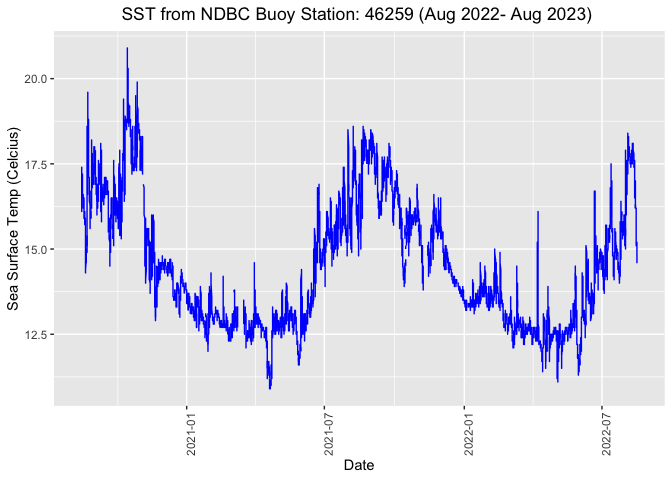
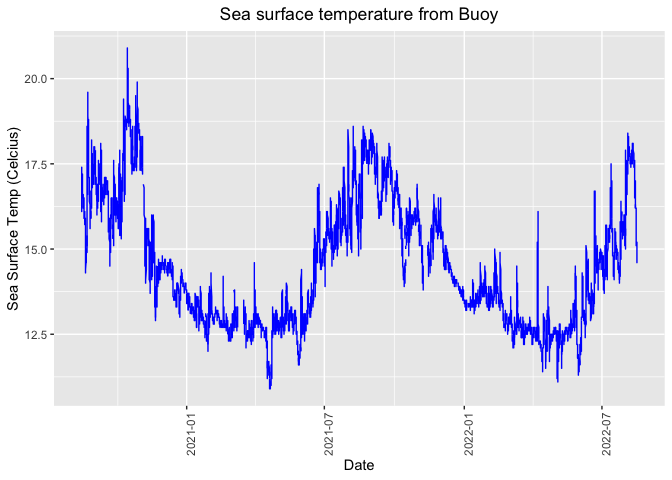
updated virtual buoy example -R

Changed region(s): [[0.1875, 0.0, 0.875, 0.0625]]

diff --git a/virtual-buoy-example_geopolar/R/virtual_buoy_example.md b/virtual-buoy-example_geopolar/R/virtual_buoy_example.md
@@ -1,53 +1,47 @@
+# Virtual Buoy example
+
 > Updated August 2023 <br/>
 
 There are buoys in many locations around the world that provide data
 streams of oceanic and atmospheric parameters. The data are often
 available through data centers like the those National Data Buoy Center
 (NDBC <https://www.ndbc.noaa.gov>), ARGO floats program
-(<http://www.argo.ucsd.edu>) or ERDDAP data server (<https://www.our>
-server). In situ buoy data are widely used to monitor environmental
-conditions. In the absence of in situ buoy data, whether the buoy
-operation is discontinued, interrupted, or limited, satellite data with
-within temporal and spatial coverage can be used to create a dataset in
-a buoy data format.
-
-To demonstrate the satellite data being used in place of buoy data, we
-will use sea surface temperature data which both satellite and buoy
-collect.
+(<http://www.argo.ucsd.edu>) or ERDDAP data server
+(<https://coastwatch.pfeg.noaa.gov/erddap/>). In situ buoy data are
+widely used to monitor environmental conditions. In the absence of in
+situ buoy data, whether the buoy operation is discontinued, interrupted,
+or limited, satellite data with within temporal and spatial coverage can
+be used to create a dataset in a buoy data format.
 
 ## Objective
 
-This tutorial will demonstration how to transform satellite data into a
-buoy data format
+This tutorial will demonstration how to shape satellite data into a buoy
+data format
 
 ## The tutorial demonstrates the following techniques
 
--   Download the satellite data and bouy data of the time period and
-    spatial coverage
--   Visualize the datasets
--   Transform the satellite data into a buoy data format
--   Validate the transformed satellite data with the actual buoy data
--   Plot the transformed satellite data and the buoy data
--   Perform a linear regression of satellite vs. buoy data
--   Plot satellite vs. buoy data and overlay the regression line
+-   Downloading the satellite and buoy data from ERDDAP data server
+-   Visualizing the datasets
+-   Reshaping the satellite data into a buoy data format
+-   Resampling buoy data (aggregation) to match satellite data temporal
+    resolution
+-   Validating the satellite data with the actual buoy data
+-   Performing a linear regression of satellite vs. buoy data
+-   Creating residual plot
 
 ## Datasets used
 
--   <a href="https://coastwatch.pfeg.noaa.gov/erddap/griddap/nesdisBLENDEDsstDNDaily.graph">The
-    sea surface temperature (SST) satellite data</a> from NOAA Geo-polar
-    blended analysis are used for transforming to buoy data format
+**Sea-Surface Temperature, NOAA Geo-polar Blended Analysis Day+Night,
+GHRSST,Near Real-Time, Global 5km, 2019-Present, Daily**  
+<a href="https://coastwatch.pfeg.noaa.gov/erddap/griddap/nesdisBLENDEDsstDNDaily.graph" target="_blank">The
+sea surface temperature (SST) </a> satellite data from NOAA Geo-polar
+blended analysis
 
--   Sea-Surface Temperature, NOAA Geo-polar Blended Analysis Day+Night,
-    GHRSST,Near Real-Time, Global 5km, 2019-Present, Daily\*
-
--   <a href="https://coastwatch.pfeg.noaa.gov/erddap/tabledap/cwwcNDBCMet.graph?time%2Cwtmp%2Cwd&station=%2246259%22&time%3E=2020-09-15T00%3A00%3A00Z&time%3C=2022-09-15T00%3A00%3A00Z&.draw=markers&.marker=5%7C5&.color=0x000000&.colorBar=%7C%7C%7C%7C%7C&.bgColor=0xffccccff">
-    NDBC Standard Meteorological Buoy Data </a> will be used to compare
-    with the satellite data.
-
--   Buoy Station No. **46259**
-
--   Location: Off the California coast at 34.737N latitude and 121.664E
-    longitude
+**NDBC Standard Meteorological Buoy Data, 1970-present**
+<a href="https://coastwatch.pfeg.noaa.gov/erddap/tabledap/cwwcNDBCMet.graph?time%2Cwtmp%2Cwd&station=%2246259%22&time%3E=2020-09-15T00%3A00%3A00Z&time%3C=2022-09-15T00%3A00%3A00Z&.draw=markers&.marker=5%7C5&.color=0x000000&.colorBar=%7C%7C%7C%7C%7C&.bgColor=0xffccccff">
+NDBC Standard Meteorological Buoy Data </a> from the buoy station no.
+**46259** are from off the California coast at 34.737N latitude and
+121.664E longitude.
 
 ## References
 
@@ -80,11 +74,20 @@ buoy data format
       pkgTest(pk)
     }
 
-## Download NDBC buoy data (August 16 2020 - August 16 2022)
+## Download NDBC buoy data
 
-The virtual buoy data with Station ID \#46259 will be downloaded from
-ERDDAP as the ground truth.
+We will download NDBC buoy data between August 16, 2020 and August 16,
+2022 from the CoastWatch ERDDAP server.
 
+The data can be downloaded by sending a data request to the ERDDAP
+server via URL. The data request URL includes a dataset ID of our
+interest and other query conditions if subset of the data product is of
+interest.
+
+To learn more about how to set up ERDDAP URL data request, please go to
+<a href="" target="_blank">ERDDAP module page</a>.
+
+    # Set ERDDAP data request URL
     buoy_url <- "https://coastwatch.pfeg.noaa.gov/erddap/tabledap/cwwcNDBCMet.csv?time%2Clongitude%2Clatitude%2Cwtmp&station%3E=%2246259%22&station%3C=%2246259%22&time%3E=2020-08-16T00%3A00%3A00Z&time%3C=2022-08-16T17%3A52%3A00Z"
 
     # Set file name
@@ -93,13 +96,13 @@ ERDDAP as the ground truth.
     # Download file
     download.file(buoy_url, fname)
 
-    # Read into data frame, skip the first row
+    # Read into data frame, skip first 2 rows that contain variable names and units
     buoy_df <- read.csv(fname, skip=2, header=TRUE)
 
     # Name the columns
     names(buoy_df) <- c("utc", "lon", "lat", "sst" )
 
-    # Add formatted data column
+    # Add additional date column
     buoy_df$date <- as.Date(buoy_df$utc, tz = "UTC")
 
     # Show the first 3 rows
@@ -112,13 +115,14 @@ ERDDAP as the ground truth.
 
 ## Visualize SST from the Buoy
 
-    options(repr.plot.width = 10)
+The plot shows the downloaded sea surface temperature by date.
 
-    ggplot(buoy_df, aes(x = date, y = sst)) +
-      geom_line(color='blue') +
-     # geom_point(size=.2, color='red')+
-      theme(axis.text.x = element_text(angle = 90),plot.title=element_text(hjust=0.5))+
-       labs(x="Date", y="Sea Surface Temp (Celcius)", title="SST from NDBC Buoy Station: 46259 (Aug 2022- Aug 2023) ")
+    # Plot sea surface temperature values from buoy
+    p <- ggplot(buoy_df, aes(x = date, y = sst)) +
+        geom_line(color='blue') +
+        theme(axis.text.x = element_text(angle = 90),plot.title=element_text(hjust=0.5))+
+        labs(x="Date", y="Sea Surface Temp (Celcius)", title="Sea surface temperature from Buoy")
+    p
 
 ![](images/unnamed-chunk-2-1.png)
 
@@ -137,9 +141,9 @@ the buoy station location.
 To learn more about ERDDAP data request via URL, please go to
 <a href="">ERDDAP module</a>.
 
-### Sending data request to CoastWatch ERDDAP Server
+### Send satellite data request to CoastWatch ERDDAP Server
 
-    # Set ERDDAP URL with subset query string
+    # Set ERDDAP URL for the satellite data
     url <- "https://coastwatch.pfeg.noaa.gov/erddap/griddap/nesdisBLENDEDsstDNDaily.csv?analysed_sst%5B(2020-08-16T12:00:00Z):1:(2022-08-16T12:00:00Z)%5D%5B(34.737):1:(34.737)%5D%5B(-121.664):1:(-121.664)%5D"
 
     # Set file name
@@ -148,11 +152,13 @@ To learn more about ERDDAP data request via URL, please go to
     # Download file
     download.file(url, fname)
 
-    # Read into data frame, skip first 2 rows that contain 
+    # Read into data frame, skip first 2 rows that contain variable names and units
     sst_df <- read.csv(fname, skip=2, header=TRUE)
     names(sst_df) <- c("utc", "lat", "lon", "sst")
+
     # Add formatted data column
     sst_df$date <- as.Date(sst_df$utc, tz = "UTC")
+
     # Show the first 3 rows
     head(sst_df, 3)
 
@@ -168,17 +174,19 @@ range, the freezing point of seawater (ca. -2). For the high end of the
 range, value unlikely to be seen in the area of interest (e.g. 45
 degrees C).
 
-    # Remove outliers sst values outside of -2 and 45 deg C
+    # Filter data that are within the valid range (-2 and 45)
     sst_df_clean = sst_df %>%
       filter(sst >=-2 & sst <= 45)
 
 ## Visualize SST data from the Satellite Data
 
-    ggplot(sst_df, aes(x = date, y = sst)) +
+    # Plot sea surface temperature values from satellite
+    p <- ggplot(sst_df, aes(x = date, y = sst)) +
       geom_line(color='blue') +
       geom_point(size=.5, color='red')+
       theme(axis.text.x = element_text(angle = 90),plot.title=element_text(hjust=0.5))+
-       labs(x="Date", y="Sea Surface Temp (Celcius)", title="2022 Aug- 2023 Aug Sea Surface Temperature at 34.736 deg North and -121.664 deg East")
+       labs(x="Date", y="Sea Surface Temp (Celcius)", title="Sea surface temperature from satellite")
+    p
 
 ![](images/unnamed-chunk-5-1.png)
 
@@ -189,10 +197,12 @@ However, the temporal resolution for the satellite dataset is daily. We
 will downsample the buoy data by computing daily mean to match the
 temporal resolution of the satellite data.
 
+    # Aggregating (taking a mean value) grouped by day
     buoy_ds <- buoy_df %>%
       group_by(date = floor_date(date, unit="days")) %>%
       summarise(mean_sst = mean(sst))
 
+    # Show first 3 rows
     head(buoy_ds, 3)
 
     ## # A tibble: 3 × 2
@@ -215,6 +225,7 @@ degrees C).
 
 ## Visualize downsampled buoy data
 
+    # Plot daily mean sst
     ggplot(buoy_ds_clean, aes(x = date, y = mean_sst)) +
       geom_line(color='blue') +
       geom_point(size=.5, color='red')+
@@ -228,10 +239,12 @@ degrees C).
 We will use dplyr::inner\_join() function to merge two data frame
 (satellite and buoy data) based on the dates appear on both dataframes.
 
+    # Combine two data frames with date column where dates exist in both data frame
     merged_df <- inner_join(sst_df_clean[c("date", "sst")],  buoy_ds_clean, by = "date")
 
 ## Plot both satellite and buoy data
 
+    # Plot satellite sst and buoy daily mean sst 
     p <- ggplot(merged_df, aes(x = date)) +  
         geom_line(aes(y = sst, color = "Satellite")) +   
         geom_line(aes(y = mean_sst, color = "NDBC Buoy")) +   
@@ -239,16 +252,17 @@ We will use dplyr::inner\_join() function to merge two data frame
                            values = c("Satellite" = "blue", "NDBC Buoy" = "orange"))+
         labs( x = "Date", y = "Temperature (in Celcius)", title="SST from Satellite and NDBC Buoy" )+
         theme(axis.text.x = element_text(angle = 0),plot.title=element_text(hjust=0.5))
-     
     p
 
 ![](images/unnamed-chunk-10-1.png) \## Perform a simple linear
 regression
 
+    # Run linear regression 
     model <- lm(mean_sst ~ sst, data = merged_df)   
 
-## Plot fiited vs. residuals
+## Plot fitted vs. residuals
 
+    # Plot fitted vs residuals 
     ggplot() +
       geom_point(aes(x = model$fitted.values, y = model$residuals), size=0.8) +
       geom_hline(yintercept = 0, color = "red") +
